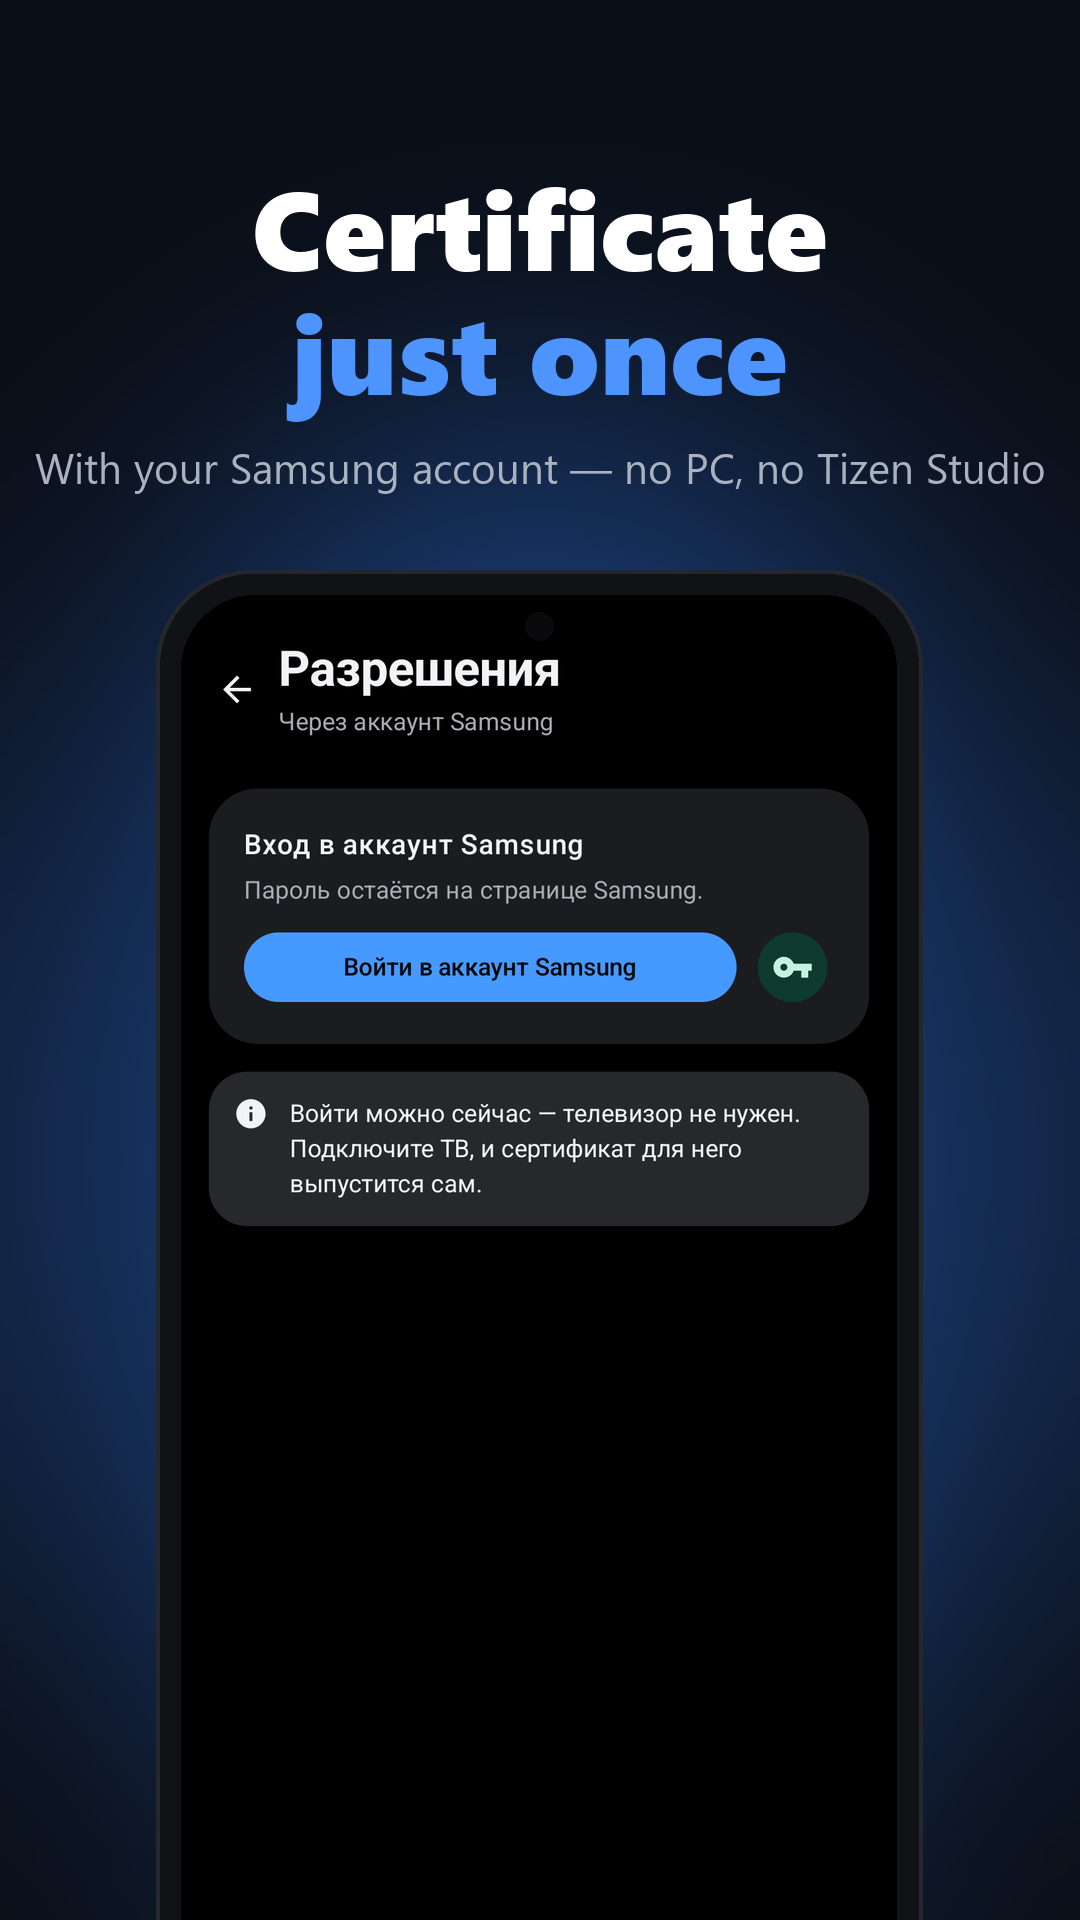
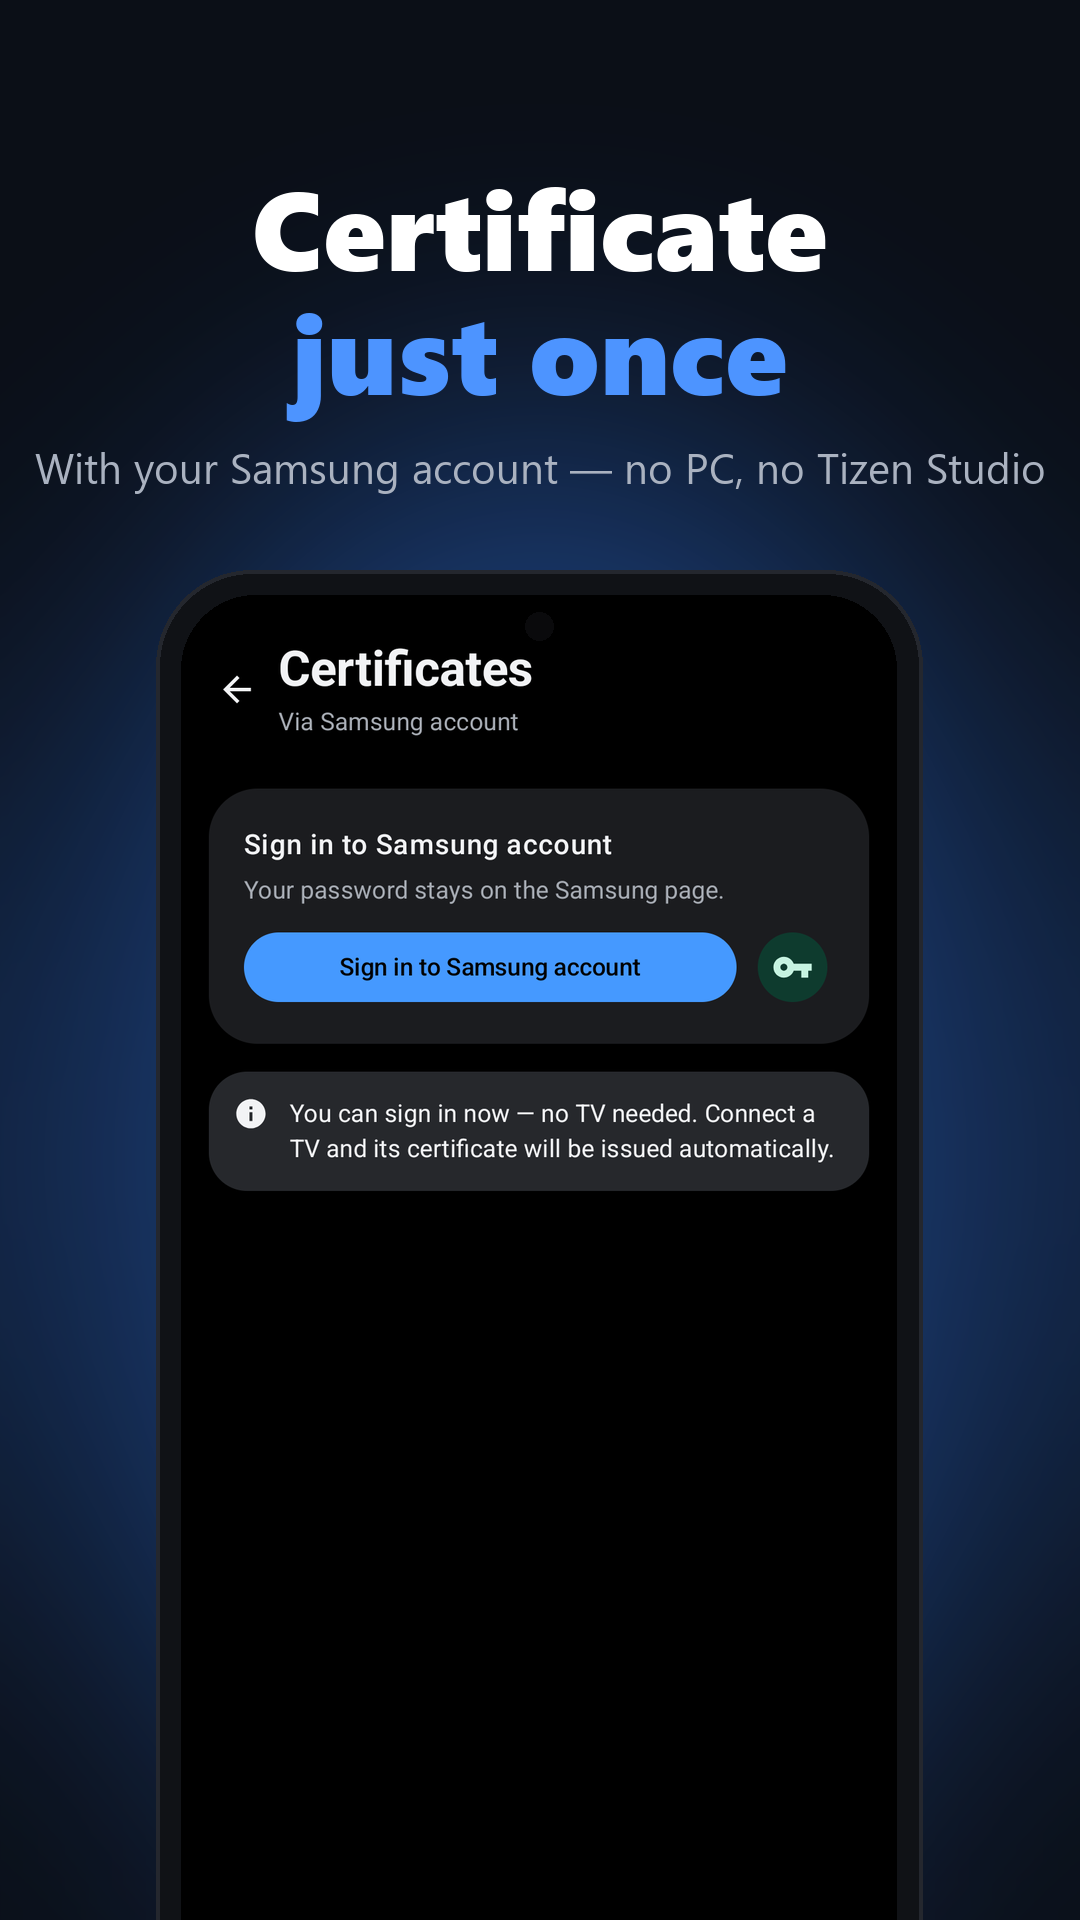
Badges, English screenshots, issue templates, contributing, site (GitHub Pages)

diff --git a/docs/index.html b/docs/index.html
@@ -1,0 +1,106 @@
+<!doctype html>
+<html lang="en">
+<head>
+<meta charset="utf-8">
+<meta name="viewport" content="width=device-width, initial-scale=1">
+<title>TV Installer — install apps on Samsung Smart TV from your phone</title>
+<meta name="description" content="Free Android app: install .wgt apps (Lampa, Jellyfin, Kodi, Plex, Moonlight…) on Samsung Smart TV (Tizen) from your phone — no PC, no Tizen Studio. Установка приложений на телевизор Samsung с телефона.">
+<meta name="keywords" content="Samsung TV install apps, Tizen sideload, install wgt Samsung TV, Tizen Studio alternative, Samsung developer mode, Lampa Samsung, установка приложений на Samsung TV, wgt Tizen">
+<meta property="og:title" content="TV Installer — install apps on Samsung Smart TV from your phone">
+<meta property="og:description" content="No PC, no Tizen Studio. Finds your TV, gets the Samsung certificate and installs .wgt apps.">
+<meta property="og:image" content="https://sunic007.github.io/tvinstaller/social.png">
+<meta property="og:type" content="website">
+<meta name="twitter:card" content="summary_large_image">
+<link rel="canonical" href="https://sunic007.github.io/tvinstaller/">
+<style>
+  :root { --bg:#0b0f17; --card:#151b26; --text:#eef2f8; --muted:#9aa6b8; --blue:#4d94ff; --green:#2ea043; }
+  * { box-sizing:border-box; }
+  body { margin:0; background:var(--bg); color:var(--text); font:16px/1.55 system-ui,-apple-system,"Segoe UI",Roboto,sans-serif; }
+  .wrap { max-width:1080px; margin:0 auto; padding:0 16px; }
+  header { padding:56px 0 24px; text-align:center;
+    background:radial-gradient(ellipse at 50% 120%, rgba(61,139,255,.35), transparent 60%); }
+  h1 { font-size:clamp(30px,6vw,52px); line-height:1.1; margin:0 0 14px; font-weight:800; }
+  h1 span { color:var(--blue); }
+  .lead { color:var(--muted); font-size:18px; max-width:640px; margin:0 auto 26px; }
+  .btn { display:inline-block; background:var(--blue); color:#06101f; font-weight:700; text-decoration:none;
+    padding:14px 26px; border-radius:999px; margin:6px; }
+  .btn.ghost { background:transparent; color:var(--text); border:1px solid #2b3445; }
+  .lang { color:var(--muted); font-size:14px; margin-top:12px; }
+  .shots { display:flex; gap:14px; overflow-x:auto; padding:24px 0; scroll-snap-type:x mandatory; }
+  .shots img { width:240px; flex:none; border-radius:18px; scroll-snap-align:center; }
+  section { padding:28px 0; }
+  h2 { font-size:26px; margin:0 0 16px; }
+  .grid { display:grid; grid-template-columns:repeat(auto-fit,minmax(240px,1fr)); gap:14px; }
+  .card { background:var(--card); border-radius:18px; padding:18px; }
+  .card b { display:block; margin-bottom:4px; }
+  .card p { margin:0; color:var(--muted); }
+  ol { padding-left:20px; } ol li { margin:8px 0; }
+  code { background:#1d2433; padding:2px 6px; border-radius:6px; }
+  footer { color:var(--muted); text-align:center; padding:32px 0 48px; font-size:14px; }
+  footer a, .ru a { color:var(--blue); }
+  .ru { border-top:1px solid #1f2735; }
+</style>
+</head>
+<body>
+<header>
+  <div class="wrap">
+    <h1>Install apps on <span>Samsung Smart TV</span><br>from your phone</h1>
+    <p class="lead">TV Installer finds your TV on Wi‑Fi, gets the Samsung certificate and installs <code>.wgt</code> apps —
+      no PC, no Tizen Studio. Free.</p>
+    <a class="btn" href="https://github.com/sunic007/tvinstaller/releases/latest/download/TvInstaller.apk">⬇ Download APK</a>
+    <a class="btn ghost" href="https://github.com/sunic007/tvinstaller">GitHub</a>
+    <div class="lang">Android 7.0+ · English &amp; Russian · <a href="#ru" style="color:inherit">Русский ↓</a></div>
+  </div>
+</header>
+
+<div class="wrap">
+  <div class="shots">
+    <img src="screenshots/en/01.png" alt="Finds your TV by itself" loading="lazy">
+    <img src="screenshots/en/02.png" alt="Shows what to press on the TV" loading="lazy">
+    <img src="screenshots/en/03.png" alt="Certificate just once" loading="lazy">
+    <img src="screenshots/en/04.png" alt="Catalog of 45+ TV apps" loading="lazy">
+    <img src="screenshots/en/05.png" alt="Lampa always fresh" loading="lazy">
+    <img src="screenshots/en/06.png" alt="English and Russian" loading="lazy">
+    <img src="screenshots/en/07.png" alt="All in one place" loading="lazy">
+  </div>
+
+  <section>
+    <h2>What it does</h2>
+    <div class="grid">
+      <div class="card"><b>📡 Finds your TV</b><p>Any Samsung Tizen TV on the same Wi‑Fi.</p></div>
+      <div class="card"><b>🎬 Shows what to press</b><p>Animated step-by-step Developer Mode guide, following Samsung's own.</p></div>
+      <div class="card"><b>🔐 Certificate in one tap</b><p>Sign in with your Samsung account once — no PC needed.</p></div>
+      <div class="card"><b>📦 45+ TV apps</b><p>Media centers, players, streaming, IPTV — or your own <code>.wgt</code>.</p></div>
+      <div class="card"><b>🔄 Always up to date</b><p>Lampa comes from its latest GitHub release; the app updates itself too.</p></div>
+      <div class="card"><b>🧾 Install log</b><p>Every step is visible; certificates can be backed up to a file.</p></div>
+    </div>
+  </section>
+
+  <section>
+    <h2>How to start</h2>
+    <ol>
+      <li>On the TV: <b>Apps</b> → scroll down to <b>App Settings</b> → press <code>12345</code> → turn <b>Developer mode</b> on and enter your phone's IP (TV Installer shows it).</li>
+      <li>Restart the TV (hold the power button ~2 s). After the restart <b>App Settings</b> shows <b>DEVELOP MODE</b>.</li>
+      <li>Install <b>TvInstaller.apk</b> on your phone, pick the TV, sign in to Samsung once, choose an app.</li>
+    </ol>
+  </section>
+
+  <section class="ru" id="ru">
+    <h2>По-русски</h2>
+    <p><b>TV Installer</b> — бесплатное Android-приложение: ставит приложения <code>.wgt</code> на телевизоры Samsung (Tizen)
+      прямо с телефона, без компьютера и Tizen Studio. Само находит ТВ, получает сертификат Samsung и устанавливает
+      приложение; анимация показывает, что нажать на пульте. Интерфейс — на русском и английском.</p>
+    <p>Главное приложение каталога — <a href="https://github.com/sunic007/lampa-samsung">Lampa для Samsung</a>
+      с Telegram-ботом и автообновлением.</p>
+    <a class="btn" href="https://github.com/sunic007/tvinstaller/releases/latest/download/TvInstaller.apk">⬇ Скачать APK</a>
+  </section>
+</div>
+
+<footer>
+  <a href="https://github.com/sunic007/tvinstaller">GitHub</a> ·
+  <a href="https://github.com/sunic007/lampa-samsung">Lampa for Samsung</a> ·
+  <a href="https://sunic007.github.io/tvinstaller-privacy/">Privacy</a> ·
+  <a href="https://github.com/sponsors/sunic007">❤ Sponsor</a>
+</footer>
+</body>
+</html>

diff --git a/README.md b/README.md
@@ -1,5 +1,7 @@
 # TV Installer — install apps on Samsung Smart TV from your phone
 
+[![Release](https://img.shields.io/github/v/release/sunic007/tvinstaller?label=release&color=3d8bff)](https://github.com/sunic007/tvinstaller/releases/latest) [![Downloads](https://img.shields.io/github/downloads/sunic007/tvinstaller/total?color=2ea043)](https://github.com/sunic007/tvinstaller/releases) ![Android](https://img.shields.io/badge/Android-7.0%2B-3ddc84?logo=android&logoColor=white) ![Samsung Tizen](https://img.shields.io/badge/Samsung-Tizen%20TV-1428a0?logo=samsung&logoColor=white) ![Languages](https://img.shields.io/badge/UI-English%20%7C%20Русский-8a63d2)
+
 **English** · [Русский](README.ru.md)
 
 An Android app that installs `.wgt` apps on **Samsung (Tizen)** Smart TVs straight from your phone — no PC, no
@@ -10,7 +12,7 @@ Tizen Studio. It finds the TV on your Wi‑Fi, gets the Samsung certificate for 
 · [privacy policy](https://sunic007.github.io/tvinstaller-privacy/)
 · ❤ [sponsor the project](https://github.com/sponsors/sunic007)
 
-> The app interface is currently in Russian. The steps below and the built-in animation show exactly what to press.
+> The app is available in **English and Russian** (follows your phone language; switch in Settings → Language).
 
 <p align="center">
   <img src="docs/screenshots/en/01.png" width="23%">
@@ -66,4 +68,4 @@ certificate and GitHub only to download apps — see the [privacy policy](https:
 ## Support the project
 
 TV Installer is free. If it is useful to you, you can support its development on
-**[GitHub Sponsors](https://github.com/sponsors/sunic007)** (in the app: Settings → «Поддержать проект»).
+**[GitHub Sponsors](https://github.com/sponsors/sunic007)** (in the app: Settings → Support the project).

diff --git a/CONTRIBUTING.md b/CONTRIBUTING.md
@@ -1,0 +1,13 @@
+# Contributing / Как помочь
+
+**English** — Thank you for helping! The most useful things right now:
+- **Report bugs** with your TV model, Tizen version and the app log ([new issue](https://github.com/sunic007/tvinstaller/issues/new/choose)).
+- **Suggest apps** for the catalog: a link to a `.wgt` release of an open-source Tizen app.
+- **Share your experience** in [Discussions](https://github.com/sunic007/tvinstaller/discussions): which TV models work.
+- **Translations**: the app is in English and Russian — suggest better wording in an issue.
+
+**Русский** — Спасибо за помощь! Больше всего пользы от:
+- **сообщений об ошибках** с моделью ТВ, версией Tizen и журналом приложения;
+- **предложений приложений** в каталог — ссылка на релиз `.wgt` открытого приложения для Tizen;
+- **отзывов** в [Обсуждениях](https://github.com/sunic007/tvinstaller/discussions): на каких моделях ТВ всё работает;
+- **правок перевода** — предложите формулировку в issue.

diff --git a/README.ru.md b/README.ru.md
@@ -1,5 +1,7 @@
 # TV Installer — установка приложений на Samsung Smart TV с телефона
 
+[![Release](https://img.shields.io/github/v/release/sunic007/tvinstaller?label=release&color=3d8bff)](https://github.com/sunic007/tvinstaller/releases/latest) [![Downloads](https://img.shields.io/github/downloads/sunic007/tvinstaller/total?color=2ea043)](https://github.com/sunic007/tvinstaller/releases) ![Android](https://img.shields.io/badge/Android-7.0%2B-3ddc84?logo=android&logoColor=white) ![Samsung Tizen](https://img.shields.io/badge/Samsung-Tizen%20TV-1428a0?logo=samsung&logoColor=white) ![Languages](https://img.shields.io/badge/UI-English%20%7C%20Русский-8a63d2)
+
 [English](README.md) · **Русский**
 
 Android-приложение для установки приложений `.wgt` на телевизоры **Samsung (Tizen)** прямо с телефона — без компьютера

diff --git a/CODE_OF_CONDUCT.md b/CODE_OF_CONDUCT.md
@@ -1,0 +1,7 @@
+# Code of Conduct / Правила общения
+
+Be respectful and helpful. No harassment, spam or piracy requests. Maintainers may remove comments that break these rules.
+
+Будьте вежливы и помогайте друг другу. Без оскорблений, спама и просьб о пиратстве. Нарушающие правила сообщения могут быть удалены.
+
+Based on the [Contributor Covenant](https://www.contributor-covenant.org/version/2/1/code_of_conduct/).

diff --git a/SECURITY.md b/SECURITY.md
@@ -1,0 +1,5 @@
+# Security / Безопасность
+
+Found a security issue? Please don't open a public issue — use **[Report a vulnerability](https://github.com/sunic007/tvinstaller/security/advisories/new)** (private).
+
+Нашли уязвимость? Не пишите в открытый issue — сообщите приватно через **[Report a vulnerability](https://github.com/sunic007/tvinstaller/security/advisories/new)**.
